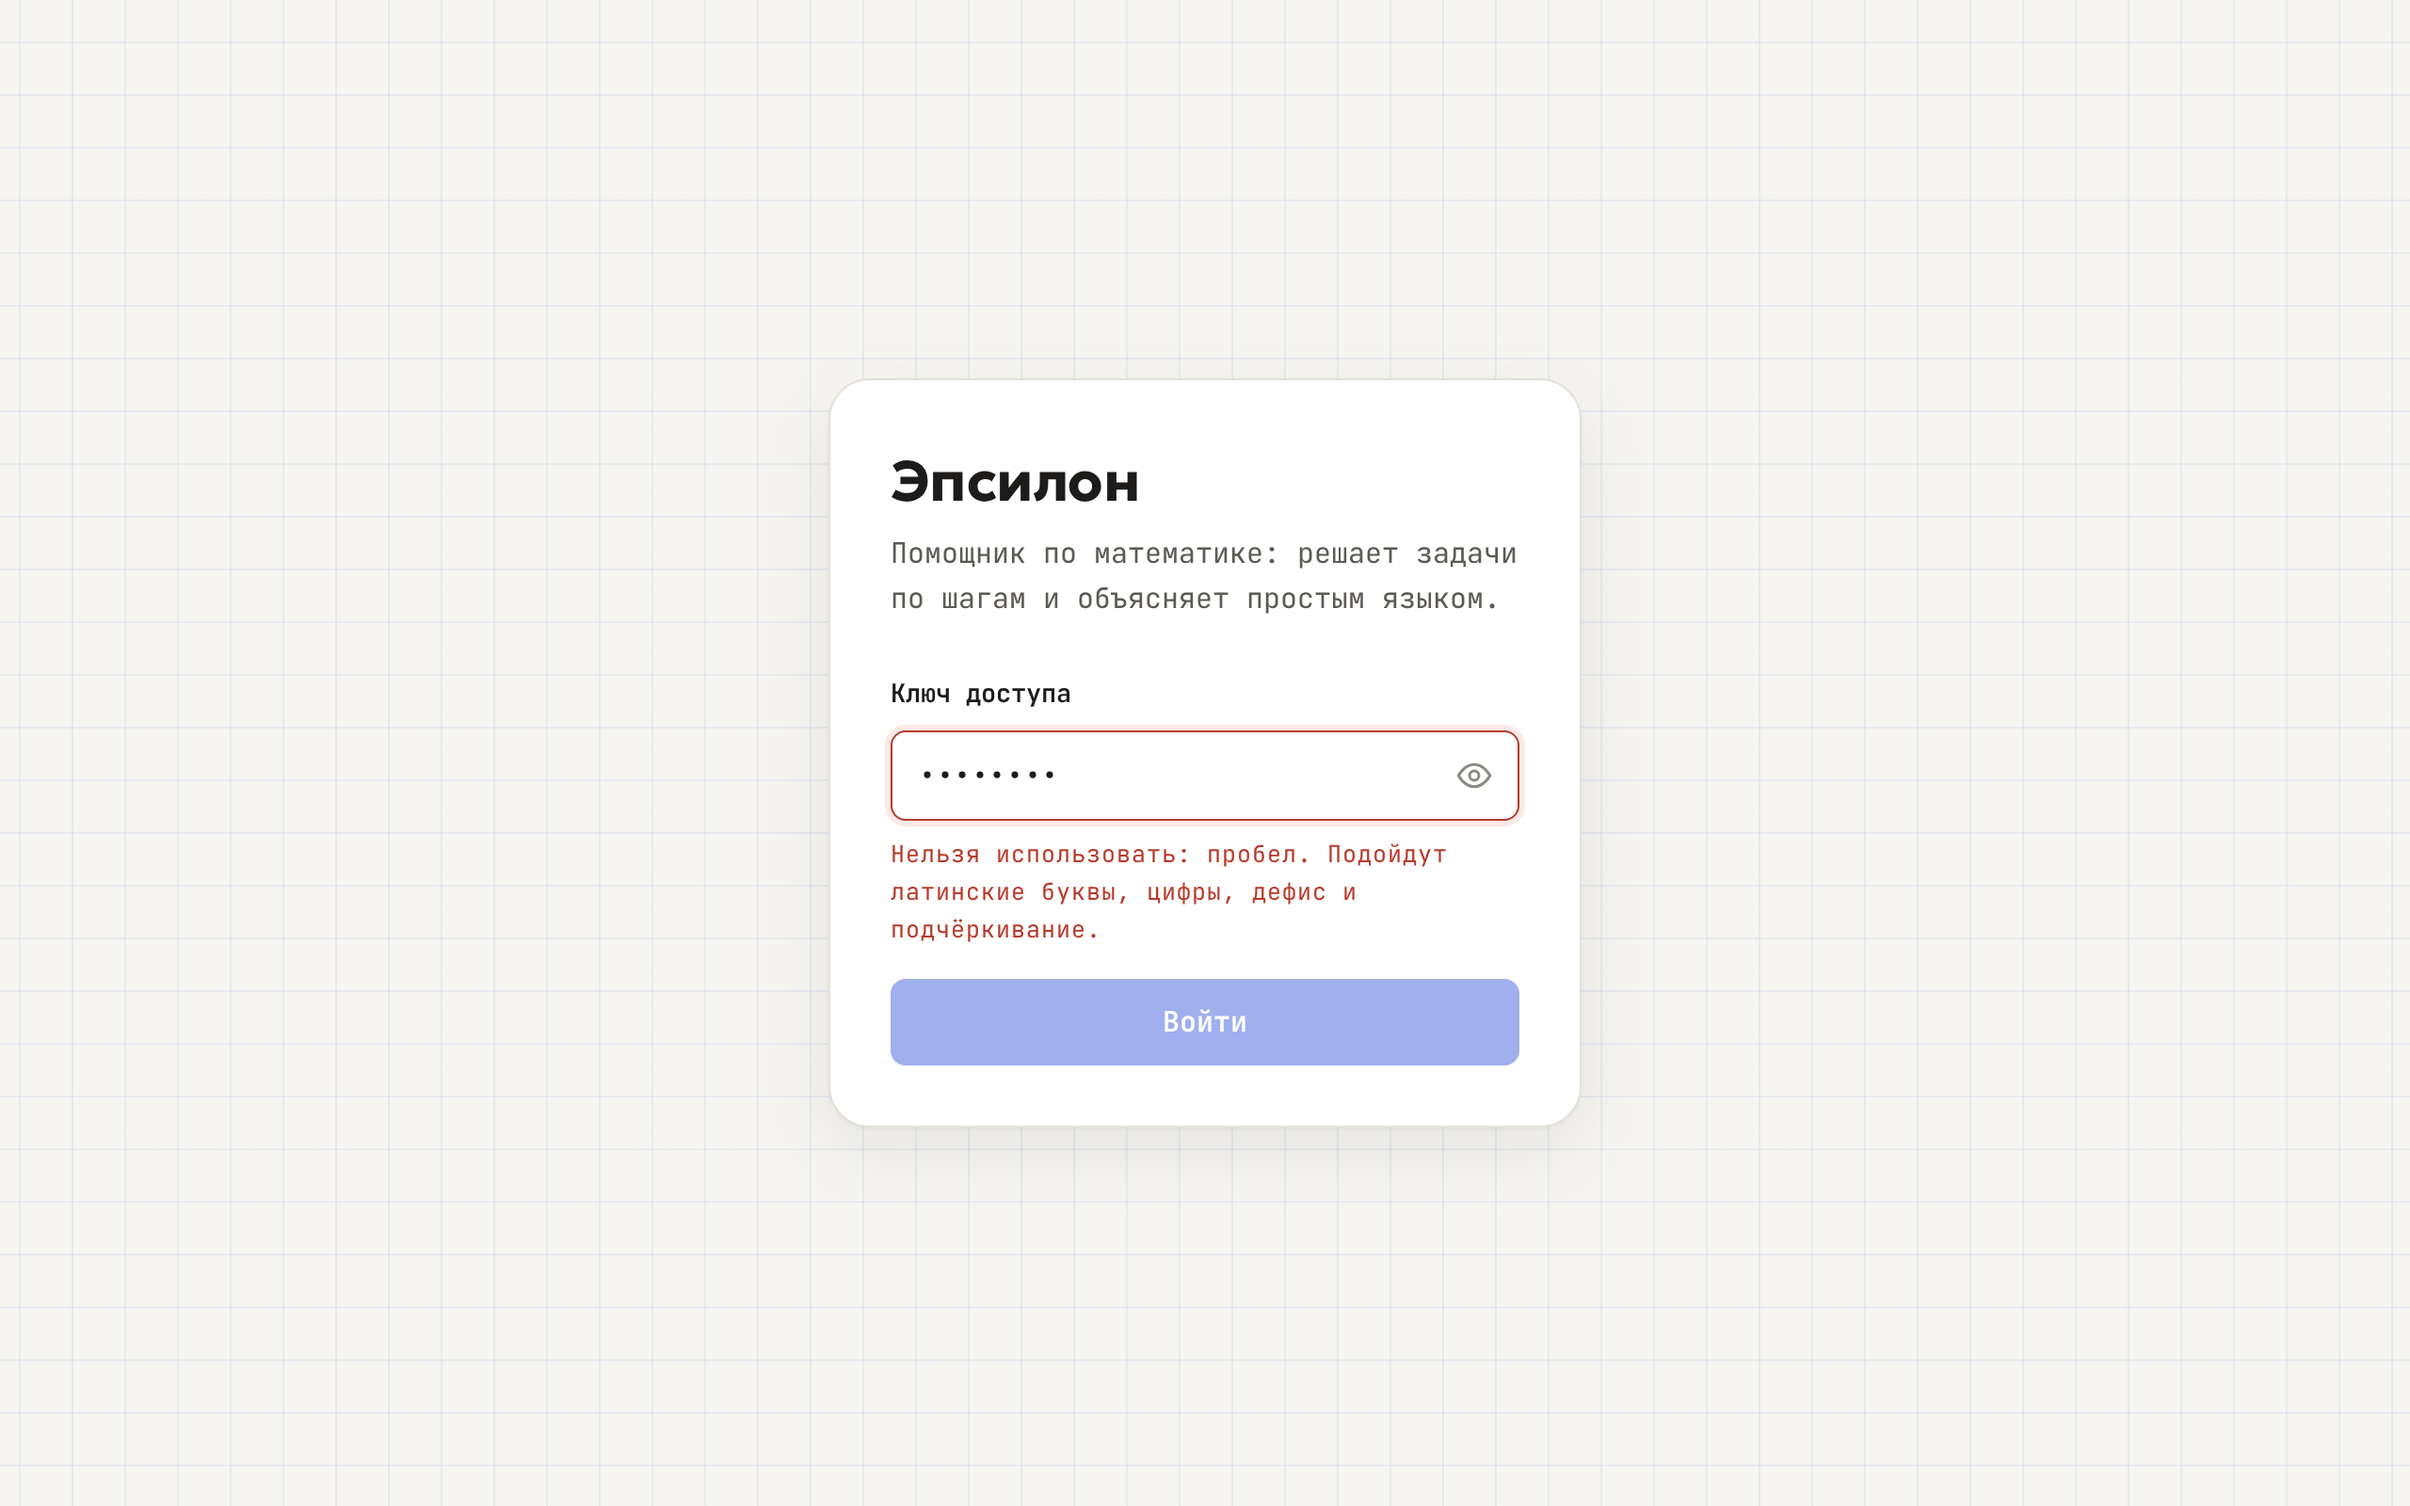
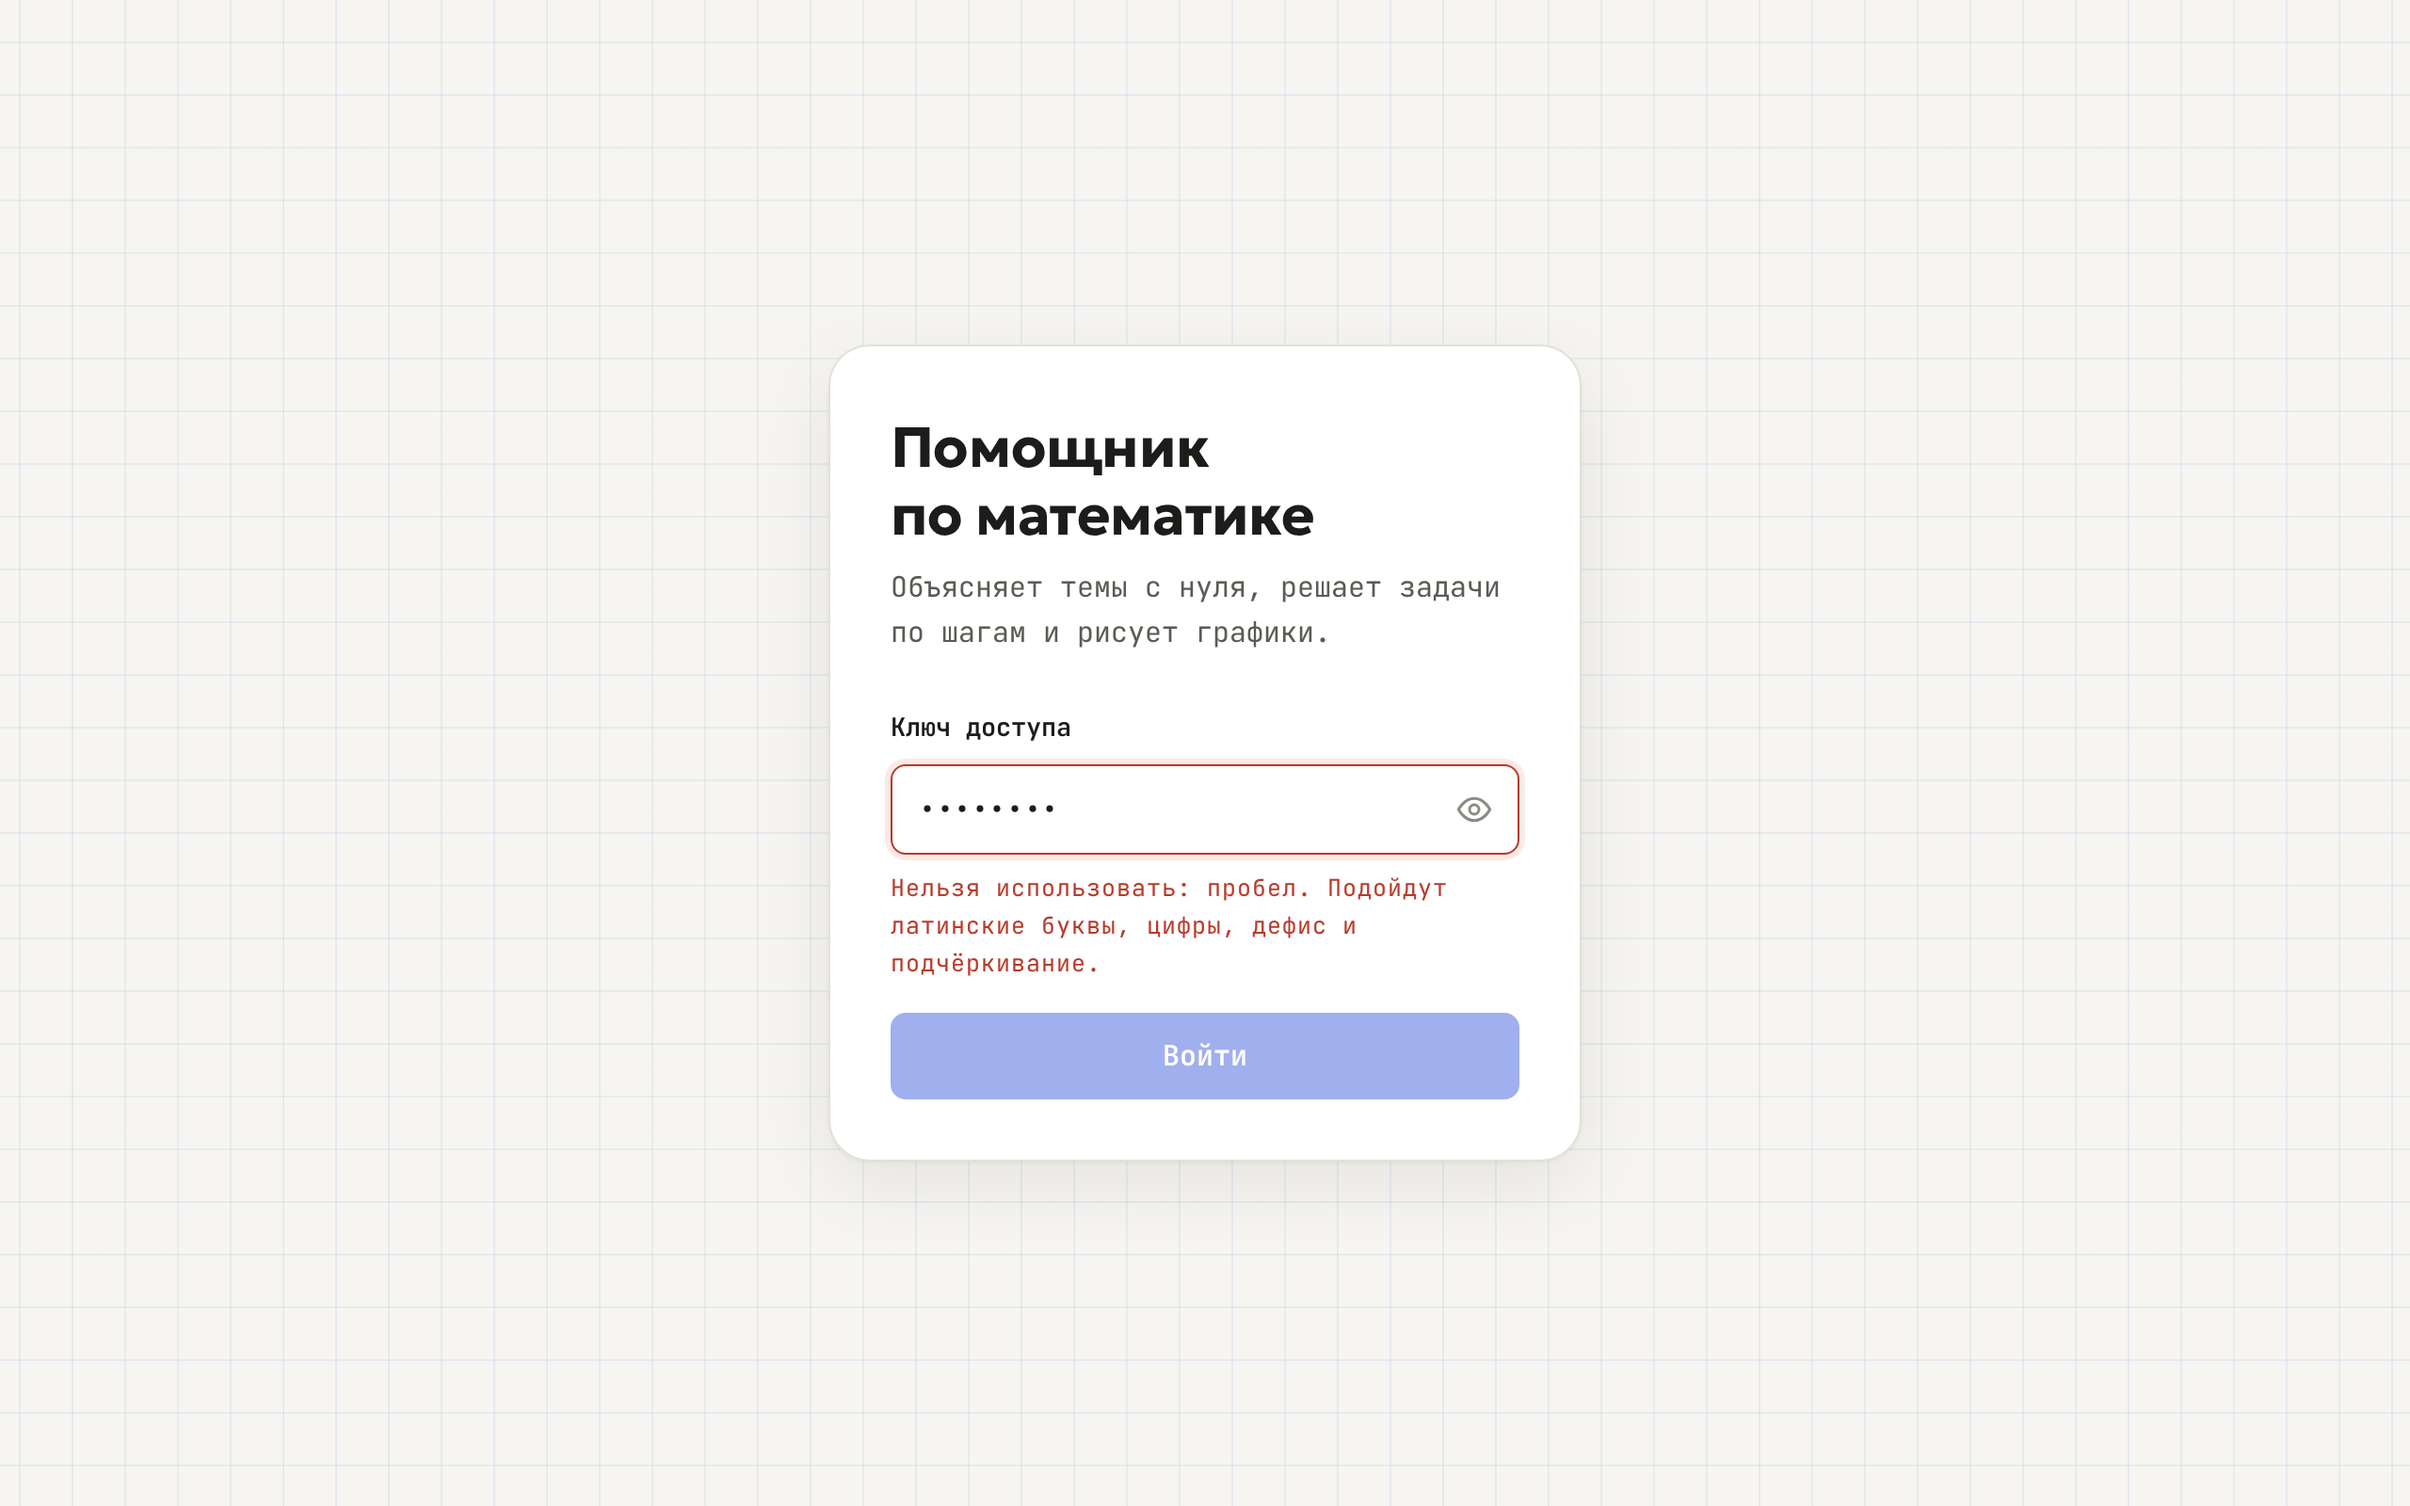
Убрано название из интерфейса, промпта и служебных файлов; скриншоты светлой и тёмной темы; пояснение про CI

Changed region(s): [[0.3438, 0.2812, 0.6562, 0.7812], [0.5938, 0.5, 0.625, 0.5625]]

diff --git a/static/index.html b/static/index.html
@@ -4,8 +4,8 @@
   <meta charset="utf-8">
   <meta name="viewport" content="width=device-width, initial-scale=1, viewport-fit=cover">
   <meta name="color-scheme" content="light dark">
-  <meta name="description" content="Эпсилон — чат-помощник по математике: решает задачи по шагам, рисует графики и даёт тренажёры.">
-  <title>Эпсилон — помощник по математике</title>
+  <meta name="description" content="Чат-помощник по математике: объясняет темы с нуля, решает задачи по шагам, рисует графики и даёт тренажёры.">
+  <title>Помощник по математике</title>
   <link rel="icon" href="/static/img/favicon.svg" type="image/svg+xml">
   <link rel="preload" href="/static/vendor/fonts/JetBrainsMono-normal-400-700-cyrillic.woff2" as="font" type="font/woff2" crossorigin>
   <link rel="preload" href="/static/vendor/fonts/JetBrainsMono-normal-400-700-latin.woff2" as="font" type="font/woff2" crossorigin>
@@ -27,8 +27,8 @@
   <!-- Экран 1: вход по ключу доступа -->
   <main id="login-view" class="login" hidden>
     <form id="login-form" class="login__card" novalidate>
-      <h1 class="login__title">Эпсилон</h1>
-      <p class="login__lead">Помощник по математике: решает задачи по шагам и&nbsp;объясняет простым языком.</p>
+      <h1 class="login__title">Помощник по&nbsp;математике</h1>
+      <p class="login__lead">Объясняет темы с нуля, решает задачи по шагам и&nbsp;рисует графики.</p>
 
       <p id="login-notice" class="login__notice" role="status" hidden></p>
 

diff --git a/static/js/views/composer.js b/static/js/views/composer.js
@@ -16,7 +16,7 @@ const SYMBOLS = [
   { label: '≤', insert: ' ≤ ' }, { label: '≥', insert: ' ≥ ' }, { label: '≠', insert: ' ≠ ' },
   { label: '∞', insert: '∞', title: 'Бесконечность' },
 ];
-const SYMBOLS_SETTING = 'epsilon.symbols'; // помним только, открыта ли панель символов
+const SYMBOLS_SETTING = 'chat.symbols'; // помним только, открыта ли панель символов
 
 /**
  * onSubmit({ text, mode, replaceLast }) — пользователь отправил вопрос;

diff --git a/tests/test_auth.py b/tests/test_auth.py
@@ -82,17 +82,17 @@ def test_requests_from_another_site_are_rejected(client):
 
 
 def test_logout_revokes_session(authed):
-    token = authed.cookies.get("epsilon_session")
+    token = authed.cookies.get("session")
     assert authed.post("/api/auth/logout").status_code == 204
 
-    authed.cookies.set("epsilon_session", token)  # украденный токен после выхода бесполезен
+    authed.cookies.set("session", token)  # украденный токен после выхода бесполезен
     assert authed.get("/api/auth/session").json() == {"authenticated": False}
     assert authed.get("/api/chats").status_code == 401
 
 
 def test_session_survives_restart(authed, settings, llm):
     restarted = TestClient(create_app(settings, llm))
-    restarted.cookies.set("epsilon_session", authed.cookies.get("epsilon_session"))
+    restarted.cookies.set("session", authed.cookies.get("session"))
     assert restarted.get("/api/auth/session").json() == {"authenticated": True}
 
 

diff --git a/tests/test_chat.py b/tests/test_chat.py
@@ -145,7 +145,7 @@ def test_chats_survive_restart(authed, settings, llm):
     chat = done(ask(authed, "Что такое предел?"))["chat"]
 
     restarted = TestClient(create_app(settings, llm))
-    restarted.cookies.set("epsilon_session", authed.cookies.get("epsilon_session"))
+    restarted.cookies.set("session", authed.cookies.get("session"))
     assert chats(restarted) == [chat]
     assert history(restarted, chat["id"])[0]["text"] == "Что такое предел?"
 
@@ -230,7 +230,7 @@ def test_database_from_single_chat_version_becomes_a_saved_chat(settings, llm):
     assert ask(client, "новый", chat["id"], mode="solve").status_code == 201
     # повторный запуск ничего не дублирует
     again = TestClient(create_app(settings, llm))
-    again.cookies.set("epsilon_session", client.cookies.get("epsilon_session"))
+    again.cookies.set("session", client.cookies.get("session"))
     assert [c["id"] for c in chats(again)] == [chat["id"]]
 
 

diff --git a/app/chat/prompt.py b/app/chat/prompt.py
@@ -6,7 +6,7 @@
 """
 
 SYSTEM_PROMPT = r"""
-Ты — «Эпсилон», точный и доброжелательный помощник по математике.
+Ты — точный и доброжелательный помощник по математике.
 
 ТЕМА
 Отвечай только на вопросы о математике: арифметика, алгебра, геометрия, тригонометрия, математический анализ, линейная алгебра, теория вероятностей и статистика, дискретная математика, логика, теория чисел, история математики и советы, как её учить.

diff --git a/tests/e2e/test_login.py b/tests/e2e/test_login.py
@@ -35,7 +35,7 @@ def test_access_key_is_not_kept_in_the_browser(chat):
     assert chat.evaluate("document.cookie") == ""  # cookie сессии недоступна скриптам (HttpOnly)
     stored = chat.evaluate("JSON.stringify([Object.entries(localStorage), Object.entries(sessionStorage)])")
     assert ACCESS_KEY not in stored
-    cookie = next(c for c in chat.context.cookies() if c["name"] == "epsilon_session")
+    cookie = next(c for c in chat.context.cookies() if c["name"] == "session")
     assert cookie["httpOnly"] and cookie["sameSite"] == "Strict" and cookie["value"] != ACCESS_KEY
 
 

diff --git a/app/main.py b/app/main.py
@@ -50,7 +50,9 @@ def create_app(settings: Settings | None = None, llm: LLMClient | None = None) -
         if gemini is not None:
             gemini.close()
 
-    app = FastAPI(title="Эпсилон", docs_url=None, redoc_url=None, openapi_url=None, lifespan=lifespan)
+    app = FastAPI(
+        title="Чат-помощник по математике", docs_url=None, redoc_url=None, openapi_url=None, lifespan=lifespan
+    )
 
     app.state.auth_service = AuthService(
         access_key=settings.access_key.get_secret_value(),

diff --git a/app/auth/dependencies.py b/app/auth/dependencies.py
@@ -10,7 +10,7 @@ from app.auth.rate_limit import LoginRateLimiter
 from app.auth.service import AuthService
 from app.errors import NotAuthenticated
 
-SESSION_COOKIE = "epsilon_session"
+SESSION_COOKIE = "session"
 
 SessionToken = Annotated[str | None, Cookie(alias=SESSION_COOKIE)]
 

diff --git a/app/__init__.py b/app/__init__.py
@@ -1,1 +1,1 @@
-"""Эпсилон — тематический чат с языковой моделью (помощник по математике)."""
+"""Тематический чат с языковой моделью: помощник по математике."""

diff --git a/docs/features.md b/docs/features.md
@@ -97,6 +97,8 @@
 
 ## Предпросмотр формул
 
+![Предпросмотр формул и панель символов](preview.png)
+
 Над полем ввода показывается, как набранное будет выглядеть: `(a + b)^2 = a^2 + 2ab + b^2`,
 `1/2 + 1/3`, `sqrt(16)/2` превращаются в настоящую запись; так же отображаются отправленные вопросы.
 Текст для модели при этом не меняется. Формулы ищутся в обычной фразе («Реши уравнение x^2 − 5x + 6 = 0»),
